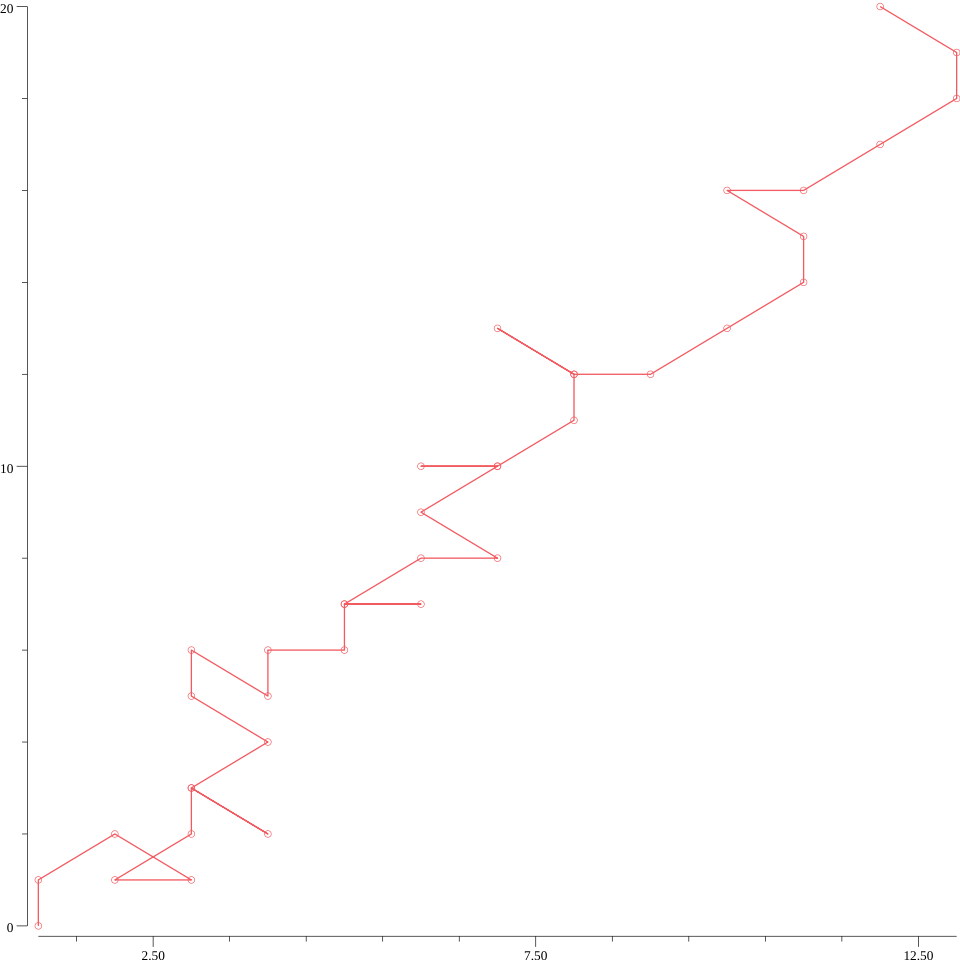
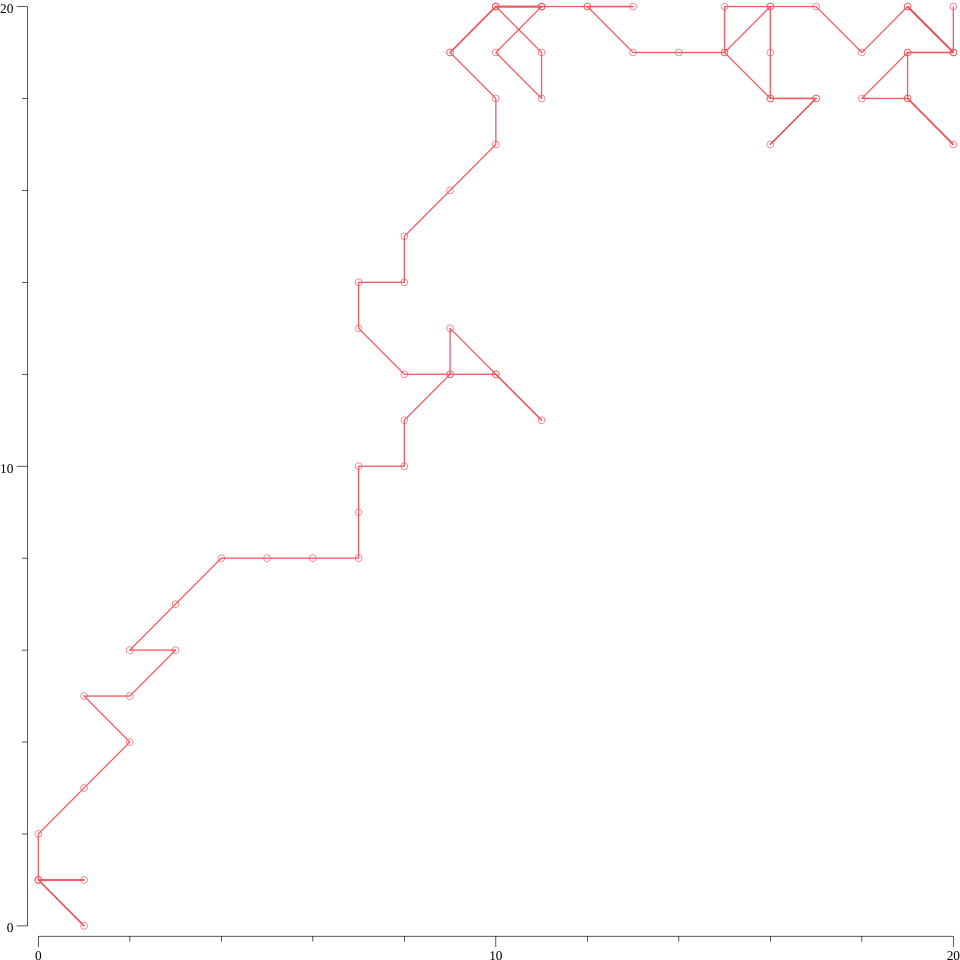
FInishing random walk

diff --git a/random_walk.go b/random_walk.go
@@ -4,6 +4,7 @@ import (
 	"time"
 	"math/rand"
 	"gonum.org/v1/plot/plotter"
+	"fmt"
 )
 
 type RandomWalk struct {
@@ -29,9 +30,11 @@ func NewRandomWalk (percentage []float64, finish int) (RandomWalk) {
 		Finish: finish,
 	}
 
-	for r.CurrentStateX != r.Finish && r.CurrentStateY != r.Finish  {
+	for !(r.CurrentStateX == r.Finish && r.CurrentStateY == r.Finish) {
+		fmt.Println(r.CurrentStateX, r.CurrentStateY)
 		r.NextStep()
 	}
+	fmt.Println("here")
 	return r
 }
 
@@ -45,6 +48,8 @@ func (r *RandomWalk) NextStep () {
 	r1 := rand.New(source)
 
 	for !moves {
+		nextX = r.CurrentStateX
+		nextY = r.CurrentStateY
 		randomNumber := r1.Float64()
 		for i, perc := range r.DirectionPercentage {
 			if perc > randomNumber {
@@ -54,6 +59,7 @@ func (r *RandomWalk) NextStep () {
 				break
 			}
 		}
+		fmt.Println(nextX, nextY)
 		if nextX >= 0 && nextX <= r.Finish && nextY >= 0 && nextY <= r.Finish {
 			moves = true
 		}

diff --git a/app/rng/main.go b/app/rng/main.go
@@ -15,6 +15,7 @@ func main() {
 	// Finish is the plane dimension to move
 	randomwalk := mosi.NewRandomWalk([]float64{0.24, 0.41, 0.51, 0.53, 0.56, 0.66, 0.81, 1.00}, 20)
 	fmt.Println(randomwalk.Moves)
+	fmt.Println(randomwalk.Route)
 	p, err := plot.New()
 	if err != nil {
 		panic(err)
@@ -24,6 +25,8 @@ func main() {
 		log.Fatal(err.Error())
 	}
 
+	p.X.Max = 20
+	p.Y.Max = 20
 	// Save the plot to a SVG file.
 	if err := p.Save(10*vg.Inch, 10*vg.Inch, "random_walk.svg"); err != nil {
 		panic(err)
